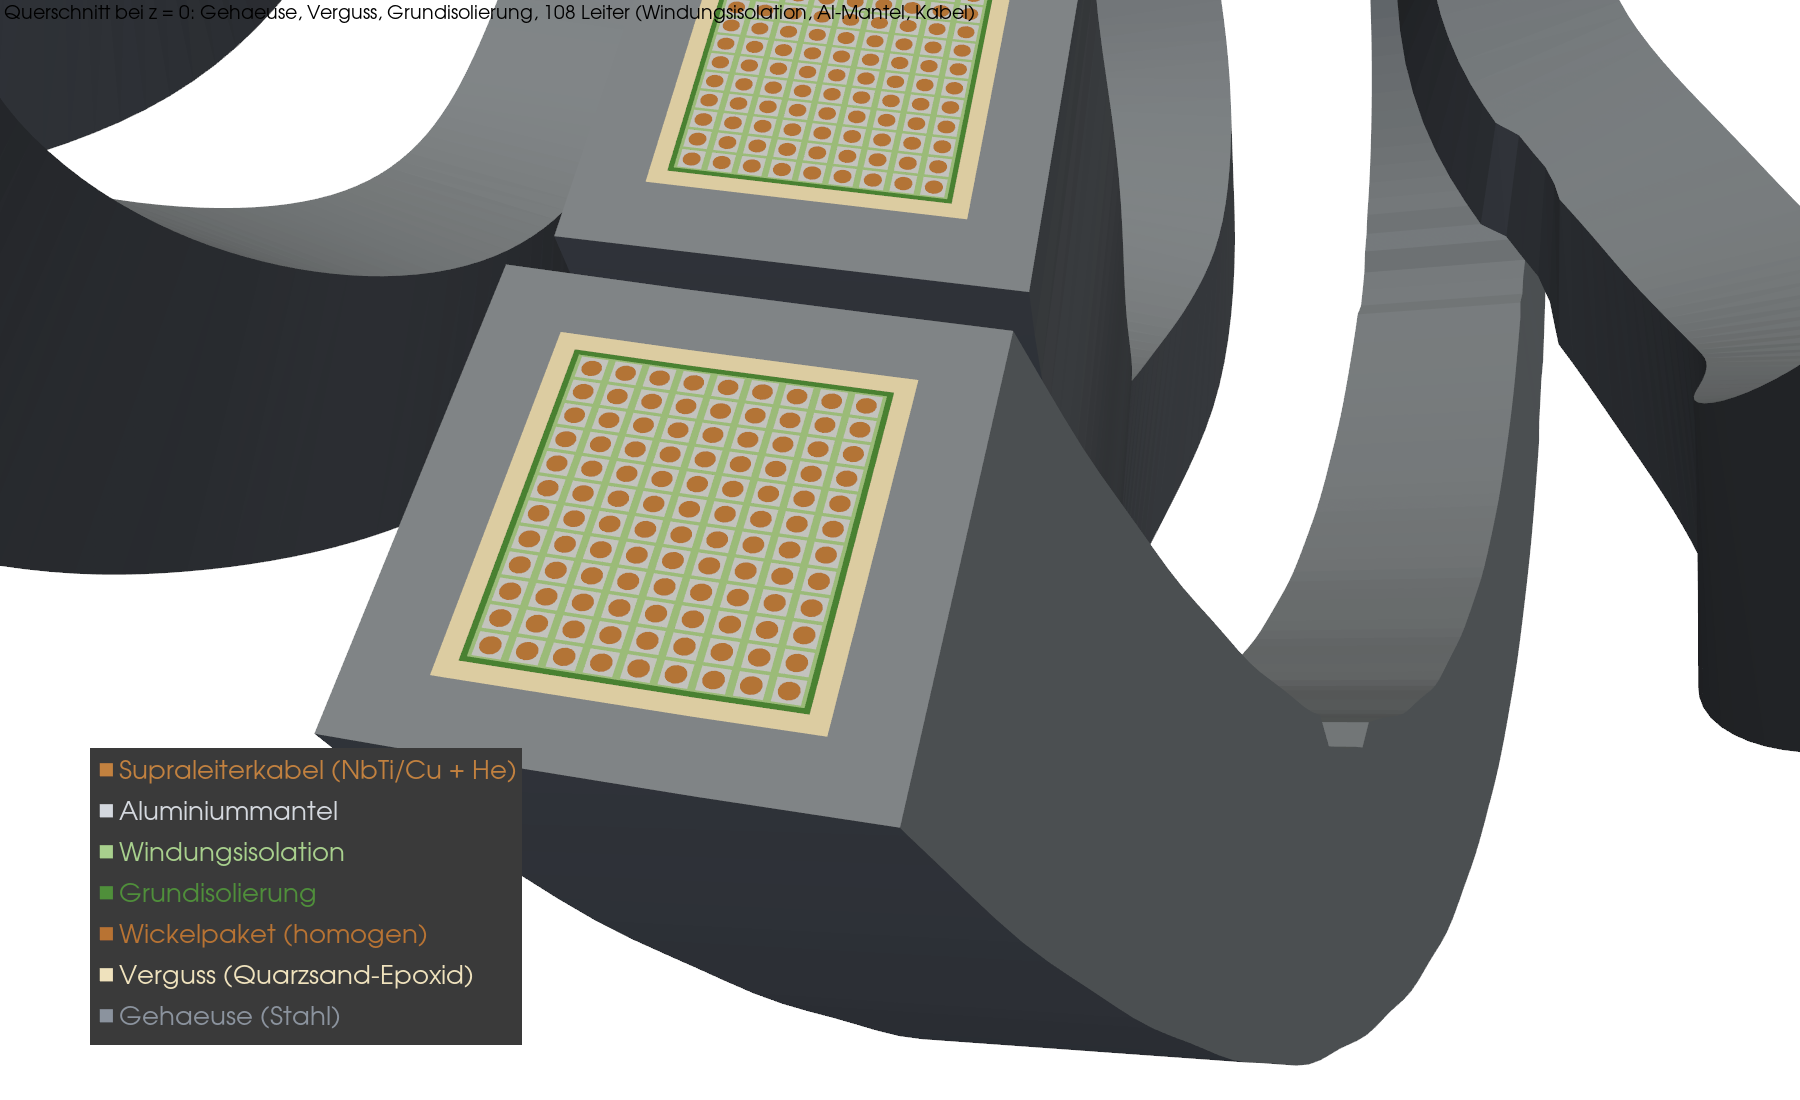
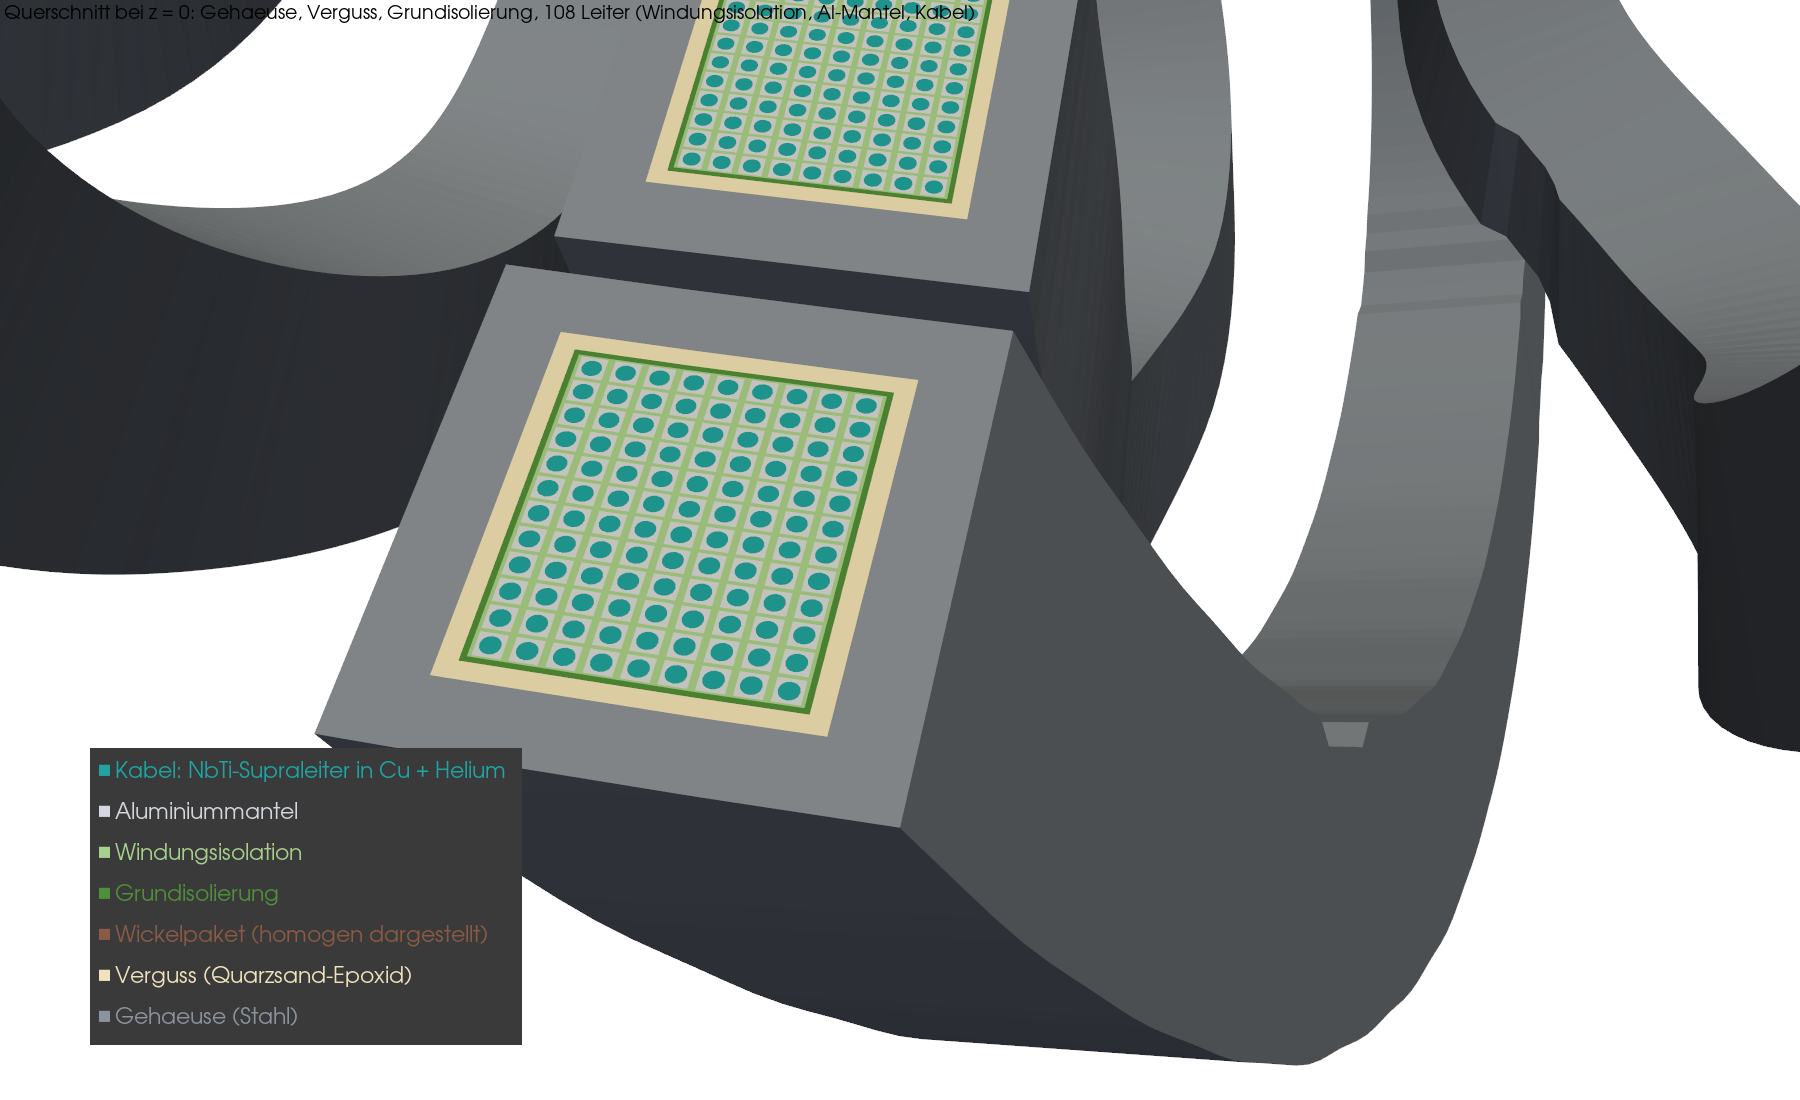
3D-Anschauung: CICC-Leiter (Strompfad im NbTi), eindeutige Schichtfarben, Blender-Render von Torus und Leiter

Changed region(s): [[0.2489, 0.3091, 0.4978, 0.6491], [0.0622, 0.68, 0.28, 0.9273], [0.3733, 0.0, 0.56, 0.1855]]

diff --git a/stellarator/leiter3d.py b/stellarator/leiter3d.py
@@ -1,0 +1,105 @@
+"""leiter3d.py — ein Stueck CICC-Leiter (W7-X-artig) in 3D: wo der Strom fliesst.
+
+  .venv/bin/python -m stellarator.leiter3d [--laenge 0.10] [--oeffnen]
+
+Anschauungsmodell, schematisch, Masse angelehnt an die W7-X-Angaben (vor Veroeffentlichung pruefen):
+  Aluminiummantel 16 x 16 mm mit runder Bohrung | 243 Straenge Durchmesser 0,57 mm, verdrillt |
+  Hohlraum ~37 % (ueberkritisches Helium) | je Strang NbTi-Filamente in Kupfermatrix (Cu : NbTi ~ 2,6).
+Strom: im Betrieb fast vollstaendig im NbTi (widerstandslos); Kupfer nur beim Quench (Stabilisator);
+Aluminium und Helium tragen keinen Strom (Mantel: Form, Kraft, Heliumdichtung).
+Darstellung: Mantel und Kabel zur Haelfte aufgeschnitten; an der Stirnseite jeder Strang mit
+NbTi-Bereich (tuerkis) in Kupfer; daneben ein Strang stark vergroessert mit einzelnen Filamenten.
+Ausgabe sim/stellarator/leiter3d/: leiter3d.png, leiter3d.glb (Farben, fuer Blender), leiter3d.vtm.
+"""
+from __future__ import annotations
+import argparse, subprocess
+from pathlib import Path
+import numpy as np
+import pyvista as pv
+
+from .lauf import PROJEKT
+
+MM = 1e-3
+FARBEN = {"Aluminiummantel": "#c9ced6", "Kupfermatrix (Stabilisator)": "#c46f2e", "NbTi-Supraleiter": "#1fa3a3",
+          }
+
+
+def strangpositionen(n: int, r_max: float) -> np.ndarray:
+    """n Punkte gleichmaessig in einem Kreis (Vogel-Spirale)."""
+    k = np.arange(n) + 0.5
+    r = r_max * np.sqrt(k / n); w = k * np.pi * (3 - np.sqrt(5))
+    return np.c_[r * np.cos(w), r * np.sin(w)]
+
+
+def mantel(kante: float, r_bohrung: float, laenge: float, offen: bool) -> pv.PolyData:
+    """Quadratrohr mit runder Bohrung, entlang z; offen=True: Viertel herausgeschnitten (x > 0, y > 0)."""
+    quad = pv.Box((-kante / 2, kante / 2, -kante / 2, kante / 2, 0, laenge)).triangulate()
+    loch = pv.Cylinder(center=(0, 0, laenge / 2), direction=(0, 0, 1), radius=r_bohrung,
+                       height=laenge * 1.2, resolution=96).triangulate()
+    m = quad.boolean_difference(loch)
+    if offen:
+        keil = pv.Box((0, kante, 0, kante, laenge * 0.35, laenge * 1.1)).triangulate()
+        m = m.boolean_difference(keil)
+    return m
+
+
+def main(argv=None):
+    ap = argparse.ArgumentParser(description="CICC-Leiterstueck in 3D (Strompfad)")
+    ap.add_argument("--laenge", type=float, default=0.10)
+    ap.add_argument("--schlag", type=float, default=0.15, help="Schlaglaenge der Verdrillung [m] (schematisch)")
+    ap.add_argument("--oeffnen", action="store_true")
+    a = ap.parse_args(argv)
+    ordner = PROJEKT / "sim" / "stellarator" / "leiter3d"; ordner.mkdir(parents=True, exist_ok=True)
+    kante, d_s, n_s, hohl = 16 * MM, 0.57 * MM, 243, 0.37
+    r_s = d_s / 2
+    r_b = np.sqrt(n_s * r_s ** 2 / (1 - hohl))                  # Bohrung aus Strangflaeche und Hohlraumanteil
+    L = a.laenge
+    teile = {k: [] for k in FARBEN}
+    teile["Aluminiummantel"].append(mantel(kante, r_b, L, offen=True))
+    # Helium: kein eigener Koerper -> die Zwischenraeume zwischen den Straengen (~37 %)
+    pos = strangpositionen(n_s, r_b - r_s * 1.05)
+    z = np.linspace(0, L, 60)
+    for i, (x0, y0) in enumerate(pos):
+        w = 2 * np.pi * z / a.schlag                               # verdrillt um die Leiterachse
+        pfad = np.c_[x0 * np.cos(w) - y0 * np.sin(w), x0 * np.sin(w) + y0 * np.cos(w), z]
+        # vorderer Teil (z < 0,35 L) ganz, hinten nur ausserhalb des aufgeschnittenen Viertels
+        sichtbar = (pfad[:, 2] < 0.36 * L) | ~((pfad[:, 0] > 0) & (pfad[:, 1] > 0))
+        weg = np.where(~sichtbar)[0]
+        if len(weg):                                               # Strang endet am aufgeschnittenen Viertel
+            pfad = pfad[: max(2, weg[0] + 1)]
+        teile["Kupfermatrix (Stabilisator)"].append(pv.Spline(pfad, len(pfad)).tube(radius=r_s, n_sides=14, capping=True))
+        # Stirnseite z = 0: NbTi-Bereich (Flaechenanteil 1/(1+2,6)) als Scheibe knapp vor dem Strang
+        teile["NbTi-Supraleiter"].append(pv.Disc(center=(pfad[0, 0], pfad[0, 1], -0.02 * MM), inner=0,
+                                                  outer=r_s * np.sqrt(1 / 3.6) * 1.0, normal=(0, 0, -1), c_res=16))
+    # Vergroesserter Strang (Faktor 12) neben dem Leiter: Filamente einzeln (Anzahl symbolisch)
+    f = 12.0; R = r_s * f; c0 = np.array([kante * 1.6, -kante * 0.2, 0.0])
+    teile["Kupfermatrix (Stabilisator)"].append(pv.Cylinder(center=c0 + [0, 0, 0.03], direction=(0, 0, 1),
+                                                            radius=R, height=0.06, resolution=96))
+    for p in strangpositionen(61, R * 0.72):
+        teile["NbTi-Supraleiter"].append(pv.Cylinder(center=c0 + [p[0], p[1], 0.03 - 0.0004], direction=(0, 0, 1),
+                                                     radius=R * 0.055, height=0.06, resolution=16))
+    mb = pv.MultiBlock()
+    for k, v in teile.items():
+        mb[k] = pv.merge(v) if len(v) > 1 else v[0]
+    mb.save(ordner / "leiter3d.vtm")
+
+    pl = pv.Plotter(off_screen=True, window_size=(1800, 1100)); pl.set_background("white")
+    for k, m in zip(mb.keys(), mb):
+        pl.add_mesh(m, color=FARBEN[k], smooth_shading=not k.startswith("Alu"), label=k)
+    pl.add_legend(bcolor="#3a3a3a", face="rectangle", size=(0.3, 0.2), loc="upper right")
+    pl.add_text("CICC-Leiter (W7-X-artig, schematisch): Strom fliesst im NbTi (tuerkis); Kupfer = Stabilisator beim Quench;\n"
+                "Aluminiummantel und Helium (Zwischenraeume) tragen keinen Strom.  Daneben: ein Strang 12-fach vergroessert (Filamente symbolisch)",
+                font_size=11, color="black")
+    pl.camera_position = [(0.05, 0.045, -0.055), (0.006, 0.002, 0.035), (0, 0, 1)]
+    pl.reset_camera(); pl.camera.zoom(0.95); pl.reset_camera_clipping_range()
+    pl.screenshot(ordner / "leiter3d.png")
+    pl.export_gltf(str(ordner / "leiter3d.glb"))
+    pl.close()
+    print("FERTIG", ordner, f"Bohrung r = {r_b / MM:.2f} mm")
+    if a.oeffnen:
+        subprocess.Popen(["eog", str(ordner / "leiter3d.png")], start_new_session=True,
+                         stdout=subprocess.DEVNULL, stderr=subprocess.DEVNULL)
+
+
+if __name__ == "__main__":
+    main()

diff --git a/stellarator/blender_szene.py b/stellarator/blender_szene.py
@@ -1,0 +1,107 @@
+"""blender_szene.py — glTF-Modelle (torus3d / leiter3d) in Blender: Materialien, Licht, Kamera, .blend + Bild.
+
+  blender -b -P stellarator/blender_szene.py -- <modell.glb> <ausgabe.blend> [bild.png] [--proben 64]
+        [--blick x y z]   Richtung Mitte -> Kamera in Modellkoordinaten (pyvista, z oben)
+        [--zoom 1.0]      >1 naeher heran (flache Modelle wie der Torus fuellen die Kugel schlecht)
+
+Laeuft in Blender (bpy). Farben kommen aus dem glTF (pyvista export_gltf); hier werden sie in
+Principled-BSDF-Materialien mit passender Oberflaeche uebersetzt (Metall: Stahl/Alu/Kupfer, sonst matt,
+Helium glasartig). Der glTF-Import liefert die Farben als sRGB-Werte -> hier linearisiert; das Modell
+wird in die pyvista-Lage (z oben) zurueckgedreht. Render: Cycles auf der CPU (GPU nutzt Hermes),
+ohne Denoiser (Blender-Paket ohne OpenImageDenoise).
+"""
+import math, sys
+import bpy
+from mathutils import Matrix, Vector
+
+arg = sys.argv[sys.argv.index("--") + 1:]
+glb, blend = arg[0], arg[1]
+png = arg[2] if len(arg) > 2 and not arg[2].startswith("--") else None
+proben = int(arg[arg.index("--proben") + 1]) if "--proben" in arg else 64
+blick = Vector(map(float, arg[arg.index("--blick") + 1: arg.index("--blick") + 4])) if "--blick" in arg else Vector((0.55, -0.95, 0.6))
+zoom = float(arg[arg.index("--zoom") + 1]) if "--zoom" in arg else 1.0
+
+bpy.ops.wm.read_factory_settings(use_empty=True)
+bpy.ops.import_scene.gltf(filepath=glb)
+objekte = [o for o in bpy.context.scene.objects if o.type == "MESH"]
+for o in bpy.context.scene.objects:                        # Import liefert (x, y) = pyvista (y, -x) -> zurueckdrehen
+    if o.parent is None:
+        o.matrix_world = Matrix.Rotation(math.pi / 2, 4, "Z") @ o.matrix_world
+bpy.context.view_layer.update()
+
+
+def farbe(mat):
+    """Grundfarbe aus dem importierten Material (Principled BSDF) oder grau."""
+    if mat and mat.use_nodes:
+        for n in mat.node_tree.nodes:
+            if n.type == "BSDF_PRINCIPLED":
+                c = n.inputs["Base Color"].default_value
+                return tuple(linear(x) for x in c[:3]) + (c[3],)
+    return (0.3, 0.3, 0.3, 1.0)
+
+
+def linear(x):
+    """sRGB -> linear (pyvista schreibt die Hex-Farben unveraendert ins glTF)."""
+    return x / 12.92 if x <= 0.04045 else ((x + 0.055) / 1.055) ** 2.4
+
+
+def art(rgb):
+    """Materialart aus der Farbe raten (Farben siehe torus3d.SCHICHTEN / leiter3d.FARBEN)."""
+    r, g, b = rgb[:3]
+    if abs(r - g) < 0.08 and abs(g - b) < 0.1 and r > 0.15:
+        return "metall"                                    # Stahl / Aluminium (grau)
+    if r > 0.3 and g < 0.4 * r and b < 0.2 * r:
+        return "kupfer"
+    if b > 0.6 and g > 0.35 and r < 0.25:
+        return "glas"                                      # Helium
+    return "matt"
+
+
+for o in objekte:
+    for i, slot in enumerate(o.material_slots):
+        rgb = farbe(slot.material)
+        m = bpy.data.materials.new(f"{o.name}_{i}"); m.use_nodes = True
+        bsdf = m.node_tree.nodes["Principled BSDF"]
+        bsdf.inputs["Base Color"].default_value = rgb
+        k = art(rgb)
+        bsdf.inputs["Metallic"].default_value = {"metall": 0.7, "kupfer": 1.0}.get(k, 0.0)   # Stahl/Alu matt-metallisch
+        bsdf.inputs["Roughness"].default_value = {"metall": 0.55, "kupfer": 0.3, "glas": 0.05}.get(k, 0.6)
+        if k == "glas":
+            bsdf.inputs["Transmission Weight" if "Transmission Weight" in bsdf.inputs else "Transmission"].default_value = 0.9
+            bsdf.inputs["Alpha"].default_value = 0.35; m.blend_method = "BLEND" if hasattr(m, "blend_method") else None
+        slot.material = m
+    for p in o.data.polygons:                              # glatt, Kanten > 40 Grad bleiben scharf
+        p.use_smooth = True
+    o.data.use_auto_smooth = True; o.data.auto_smooth_angle = math.radians(40)
+
+# Kamera auf die Bounding Box aller Objekte
+lo = Vector((1e9, 1e9, 1e9)); hi = -lo
+for o in objekte:
+    for c in o.bound_box:
+        w = o.matrix_world @ Vector(c)
+        lo = Vector(map(min, lo, w)); hi = Vector(map(max, hi, w))
+mitte = (lo + hi) / 2; groesse = (hi - lo).length
+cam = bpy.data.cameras.new("Kamera"); cam.lens = 45
+cam.clip_start = groesse * 1e-3; cam.clip_end = groesse * 100
+co = bpy.data.objects.new("Kamera", cam); bpy.context.scene.collection.objects.link(co)
+abstand = 0.5 * groesse / math.tan(cam.angle_y / 2) * 1.25 / zoom     # Kugel um die Bounding Box passt ins Bild (Hoehe)
+co.location = mitte + blick.normalized() * abstand
+co.rotation_euler = (mitte - co.location).to_track_quat("-Z", "Y").to_euler()
+bpy.context.scene.camera = co
+for name, ort, staerke in (("Sonne", (1, -1, 2), 1.0), ("Fuell", (-1, 1, -1), 0.4)):
+    l = bpy.data.lights.new(name, "SUN"); l.energy = staerke
+    lo_ = bpy.data.objects.new(name, l); bpy.context.scene.collection.objects.link(lo_)
+    lo_.rotation_euler = (-Vector(ort)).to_track_quat("-Z", "Y").to_euler()
+welt = bpy.data.worlds.new("Welt"); bpy.context.scene.world = welt; welt.use_nodes = True
+welt.node_tree.nodes["Background"].inputs["Color"].default_value = (0.85, 0.87, 0.9, 1)
+welt.node_tree.nodes["Background"].inputs["Strength"].default_value = 0.8
+
+sc = bpy.context.scene
+sc.render.engine = "CYCLES"; sc.cycles.device = "CPU"; sc.cycles.samples = proben; sc.cycles.use_denoising = False
+sc.render.resolution_x, sc.render.resolution_y = 1920, 1080
+sc.view_settings.view_transform = "AgX" if "AgX" in [i.identifier for i in sc.view_settings.bl_rna.properties["view_transform"].enum_items] else "Filmic"
+bpy.ops.wm.save_as_mainfile(filepath=blend)
+if png:
+    sc.render.filepath = png
+    bpy.ops.render.render(write_still=True)
+print("BLENDER_FERTIG", blend, png)

diff --git a/stellarator/torus3d.py b/stellarator/torus3d.py
@@ -24,9 +24,9 @@ from . import spulen as sp, cad
 from .gehaeuse_netz import waende, entflechten
 from .lauf import PROJEKT
 
-SCHICHTEN = {1: ("Supraleiterkabel (NbTi/Cu + He)", "#c2813f"), 2: ("Aluminiummantel", "#d4d8de"),
+SCHICHTEN = {1: ("Kabel: NbTi-Supraleiter in Cu + Helium", "#1fa3a3"), 2: ("Aluminiummantel", "#d4d8de"),
              3: ("Windungsisolation", "#a8d08d"), 4: ("Grundisolierung", "#4f8f3a"),
-             5: ("Wickelpaket (homogen)", "#b87333"), 6: ("Verguss (Quarzsand-Epoxid)", "#efe2bd"),
+             5: ("Wickelpaket (homogen dargestellt)", "#8a5a44"), 6: ("Verguss (Quarzsand-Epoxid)", "#efe2bd"),
              7: ("Gehaeuse (Stahl)", "#8b939e")}
 NL, NW = 12, 9                       # Lagen (entlang n) x Windungen (entlang b) = 108
 NK = 16                              # Punkte auf dem Kabelkreis
@@ -173,6 +173,16 @@ def bilder(mb, ordner: Path, titel: str) -> None:
     fl_pfad = PROJEKT / "sim" / "stellarator" / "bewertung" / titel / "feldlinien.vtm"
     fl = pv.read(fl_pfad)["feldlinien"] if fl_pfad.exists() else None
     teile = {k: schnitt(mb[name]) for k, (name, _) in SCHICHTEN.items()}
+    # glTF mit Farben fuer Blender (stellarator/blender_szene.py): Schnittmodell + Feldlinien
+    pl = pv.Plotter(off_screen=True)
+    for k, m in teile.items():
+        if m.n_points:
+            pl.add_mesh(m.triangulate(), color=SCHICHTEN[k][1])
+    if fl is not None:
+        for key in fl.keys():
+            if fl[key] is not None and fl[key].n_points > 1:
+                pl.add_mesh(fl[key].tube(radius=0.012, n_sides=8).triangulate(), color="#7b2cbf")
+    pl.export_gltf(str(ordner / "torus3d.glb")); pl.close()
     ganz = {k: mb[name].extract_surface(algorithm="dataset_surface") for k, (name, _) in SCHICHTEN.items() if k == 7}
 
     def szene(datei, oberfl, kamera, zoom, text, legende=True, linien=True, einpassen=True):

diff --git a/BEFUNDE.md b/BEFUNDE.md
@@ -6,6 +6,18 @@
 ---
 
 
+### B-026 | 3D-Anschauungsmodelle: Torus mit Schichten, CICC-Leiter, Blender-Render (2026-10-25)
+- **torus3d.py:** W7-X-artiger Torus, 70 Spulen mit Gehaeuse, Verguss, Grundisolierung, 108 Leitern je Spule
+  (Windungsisolation, Al-Mantel, Kabel), eindeutige Farben; Bilder w7x_torus3d_{schnitt,sektor,detail,geschlossen}.png,
+  glTF torus3d.glb (169 MB) fuer Blender.
+- **leiter3d.py:** CICC-Leiterstueck (Al 16 mm, 243 Straenge verdrillt, Bohrung r 5,60 mm aus 37 % Hohlraum),
+  Strang 12-fach vergroessert mit NbTi-Filamenten (symbolisch). Strom: NbTi; Cu nur Stabilisator; Al/He stromlos.
+- **blender_szene.py (Blender 4.0, Cycles CPU):** Fallstricke: Paket ohne OpenImageDenoise -> Denoiser aus;
+  glTF-Farben kommen als sRGB-Werte -> linearisieren; Import liegt um 90 Grad um z gedreht -> Wurzel zurueckdrehen;
+  weisser Hintergrund + Sonne 2-3 ueberstrahlt Metallflaechen -> Sonne 1,0, Alu metallisch 0,7/Rauheit 0,55, AgX.
+  Flacher Torus fuellt Bounding-Kugel schlecht -> --zoom 1.9. Render Leiter ~1 min, Torus wenige Minuten.
+- Status: ✅ Bilder in docs/bilder (w7x_leiter3d*.png, w7x_torus3d_blender.png); .blend in sim/ (nicht im Repo).
+
 ### B-025 | W7-X-Gehaeuse kollisionsfrei: CAD mit Nachbarschnitt, Rechnung ueber Rohrnetze (2026-10-24)
 - **Ursache der Restkollisionen:** nicht die Wandstaerke (echter WP-Spalt NPC5<->NPC5 108 mm, NPC5<->PCB 130 mm),
   sondern (a) Loft-Ausbeulung zwischen den Stationen und (b) die ECKEN der Gehaeuse: freiraum prueft nur

diff --git a/ERINNERUNGEN.md b/ERINNERUNGEN.md
@@ -164,3 +164,5 @@ User-Wahl: **kompakter Stellarator** (nicht W7-X nachbilden). Installation erlau
 - **Tavily Rate-Limit** (60 s Pause) — Websuchen einzeln.
 
 - **2026-10-24:** Research-Bericht Magnetspulen (Funktion/Bauweise/Material/Fertigungsverfahren, W7-X, zitiert) als `bericht/spulen_recherche.{tex,pdf}` (3 S., 0 Fehler, visuell gecheckt). Kanäle: write_file/execute_code/terminal-Heredocs >~15 Zeilen = abgeschnitten; **patch ≤~700 Zeichen + kurze printf/sed = zuverlässig.**
+
+- **2026-10-25:** 3D-Modelle torus3d/leiter3d + Blender-Render (blender_szene.py, Cycles CPU), Bilder in docs/bilder, Befund B-026. .blend-Dateien in sim/stellarator/{torus3d/w7x_standard,leiter3d}.
